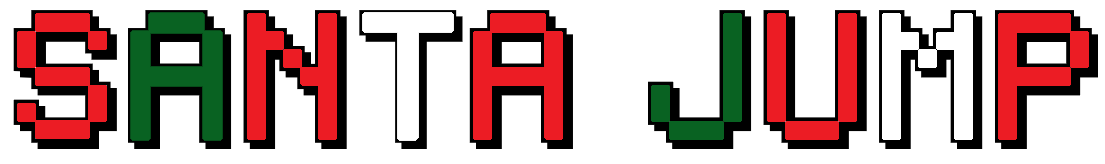
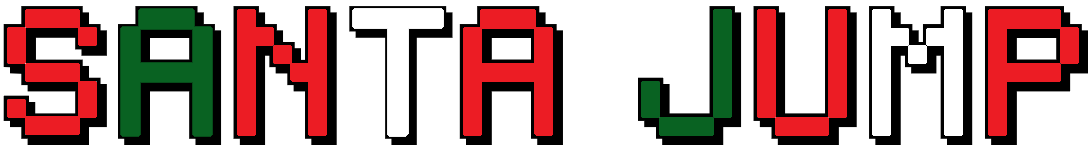
- decreased the original title image size

Changed region(s): [[0.0, 0.0261, 0.5298, 0.9673], [0.561, 0.0261, 0.9973, 0.9673], [0.6233, 0.0261, 0.7168, 0.1046]]

diff --git a/santaStyle.css b/santaStyle.css
@@ -65,7 +65,7 @@ html, body {
     height: 100%;
     width: 100%;
     resize: both;
-    padding-top: calc(7% + 40px);
+    padding-top: calc(6% + 40px);
 }
 
 @media only screen and (max-width: 500px) {
